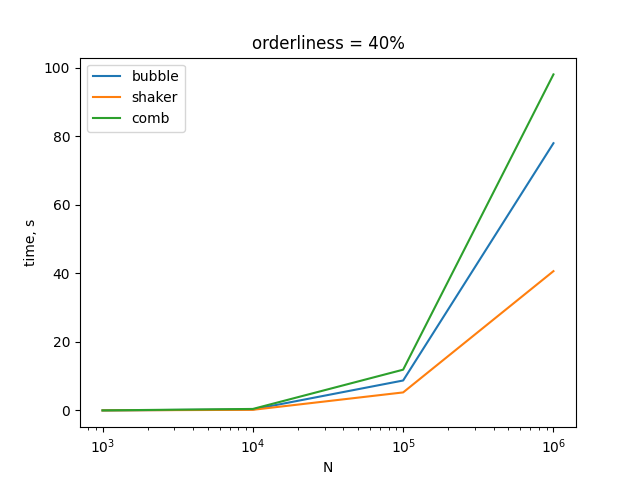
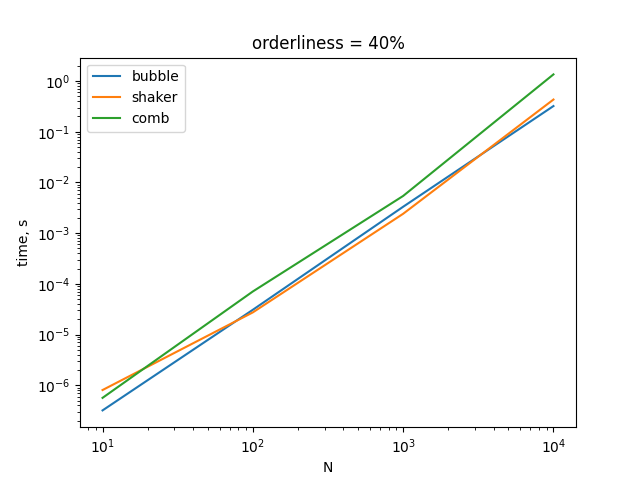
orderliness benchmarks for qudratic_sorting problem

diff --git a/problems/quadratic_sorting/benchmarks.py b/problems/quadratic_sorting/benchmarks.py
@@ -1,5 +1,7 @@
 import subprocess
 from sys import argv
+import matplotlib
+matplotlib.use("Agg")
 import matplotlib.pyplot as plt
 import os
 
@@ -8,7 +10,6 @@ COUNT_OF_MEASUREMENTS = int(1e5)
 def get_times(N, orderliness, count):
     output = subprocess.run([argv[1], str(N), str(orderliness), str(count)], 
                             capture_output=True, text=True).stdout.split("\n")
-    print(output)
     return float(output[0]), float(output[1]), float(output[2])
 
 def get_benchmark_of_N(orderliness):
@@ -16,14 +17,13 @@ def get_benchmark_of_N(orderliness):
     bubble_measurements = []
     shaker_measurements = []
     comb_measurements = []
-    for pN in range(1, 5):
+    for pN in range(1, 6):
         N = 10 ** pN
         times = get_times(N, orderliness, COUNT_OF_MEASUREMENTS / N)
         Ns += [N]
         bubble_measurements += [times[0]]
         shaker_measurements += [times[1]]
         comb_measurements += [times[2]]
-        print(N, comb_measurements[-1])
     plt.plot(Ns, bubble_measurements, label="bubble")
     plt.plot(Ns, shaker_measurements, label="shaker")
     plt.plot(Ns, comb_measurements, label="comb")
@@ -34,19 +34,21 @@ def get_benchmark_of_N(orderliness):
     plt.title(f"orderliness = {int(100 * orderliness)}%")
     plt.legend()
     plt.savefig(f"benchmarks/No{int(100 * orderliness)}.png")
+    print(f"benchmarks/No{int(100 * orderliness)}.png")
     plt.clf()
 
-def get_benchmark_of_orderliness(N):
+def get_benchmark_of_orderliness(N, mc):
     os = []
     bubble_measurements = []
     shaker_measurements = []
     comb_measurements = []
-    for o in range(0, 100, 10):
-        times = get_times(N, o / 100, COUNT_OF_MEASUREMENTS)
+    for o in range(0, 101, 10):
+        times = get_times(N, o / 100, (mc * 100) if (o == 100) else mc)
         os += [o]
         bubble_measurements += [times[0]]
         shaker_measurements += [times[1]]
         comb_measurements += [times[2]]
+        print("\r", o, "%", sep="", end="")
     plt.plot(os, bubble_measurements, label="bubble")
     plt.plot(os, shaker_measurements, label="shaker")
     plt.plot(os, comb_measurements, label="comb")
@@ -55,17 +57,16 @@ def get_benchmark_of_orderliness(N):
     plt.title(f"N = {N}")
     plt.legend()
     plt.savefig(f"benchmarks/N{N}o.png")
+    print(f"\rbenchmarks/N{N}o.png")
     plt.clf()
 
 os.makedirs("benchmarks", exist_ok=True)
-"""get_benchmark_of_N(0)
-get_benchmark_of_N(0.2)
-get_benchmark_of_N(0.4)
-get_benchmark_of_N(0.6)
-get_benchmark_of_N(0.8)
-get_benchmark_of_N(0.95)
-get_benchmark_of_orderliness(3000)
-get_benchmark_of_orderliness(5000)"""
-#get_benchmark_of_orderliness(100000)
-
-get_benchmark_of_N(0)
+# get_benchmark_of_N(0)
+# get_benchmark_of_N(0.2)
+# get_benchmark_of_N(0.4)
+# get_benchmark_of_N(0.6)
+# get_benchmark_of_N(0.8)
+# get_benchmark_of_N(.97)
+# get_benchmark_of_orderliness(100, 10000)
+# get_benchmark_of_orderliness(1000, 100)
+# get_benchmark_of_orderliness(10000, 1)
